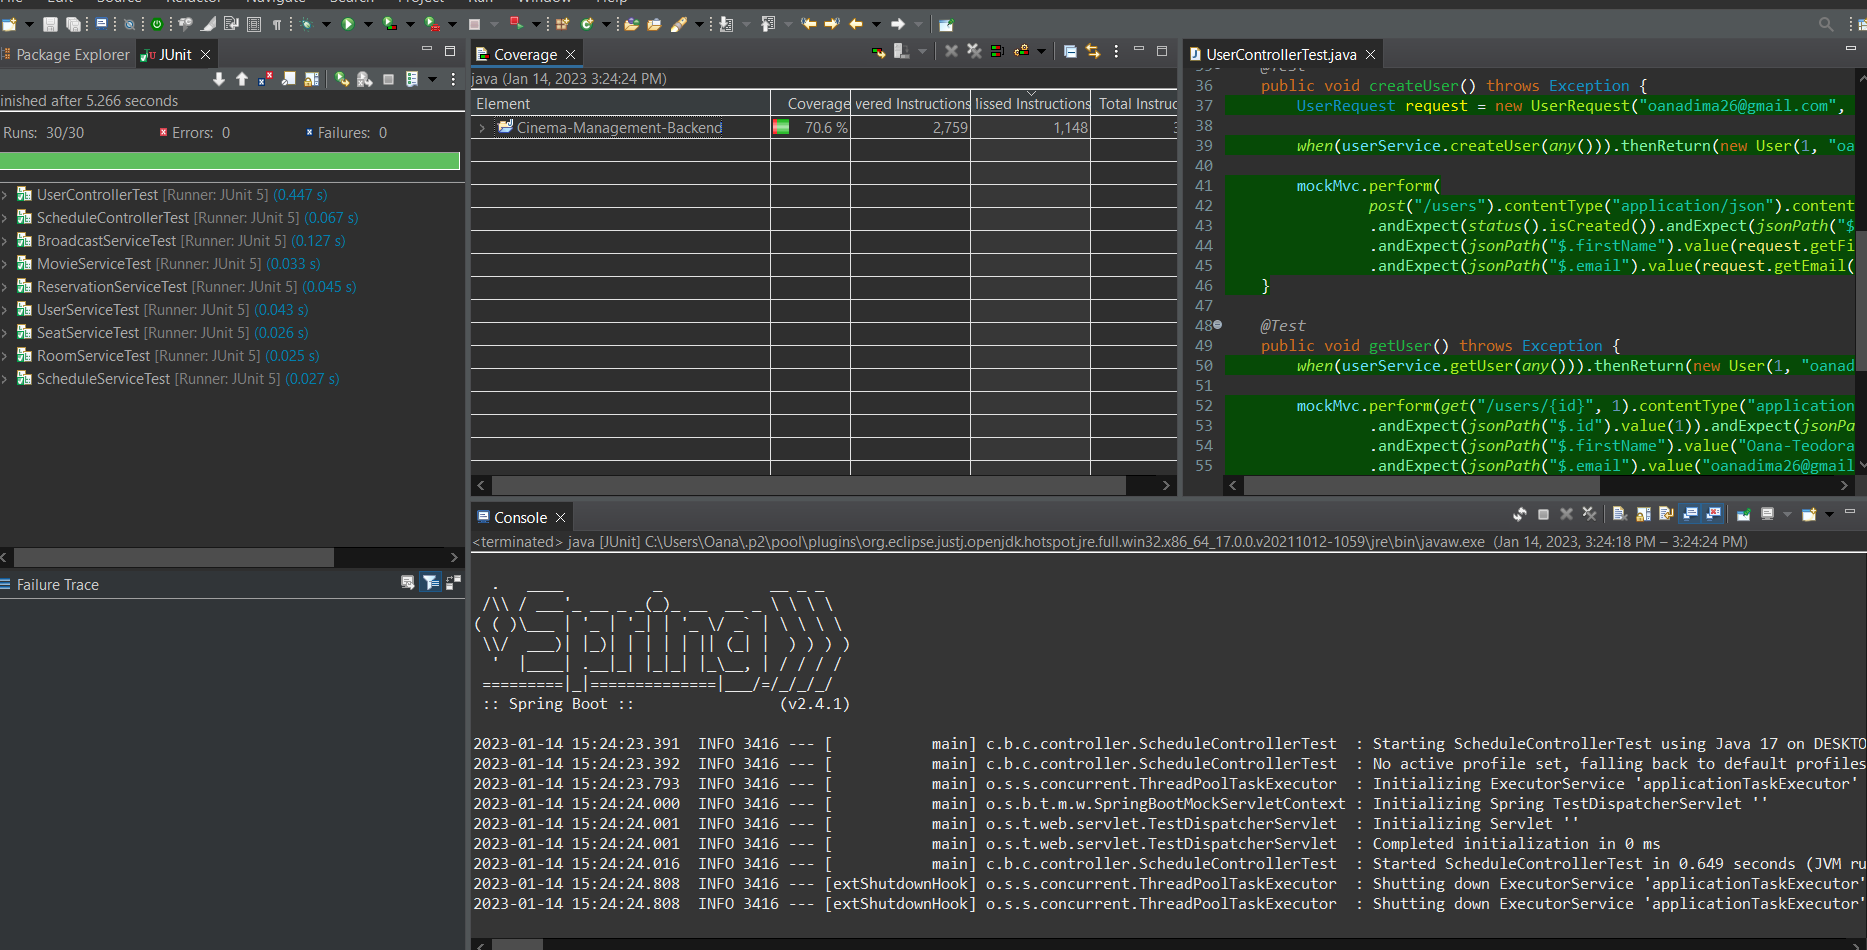
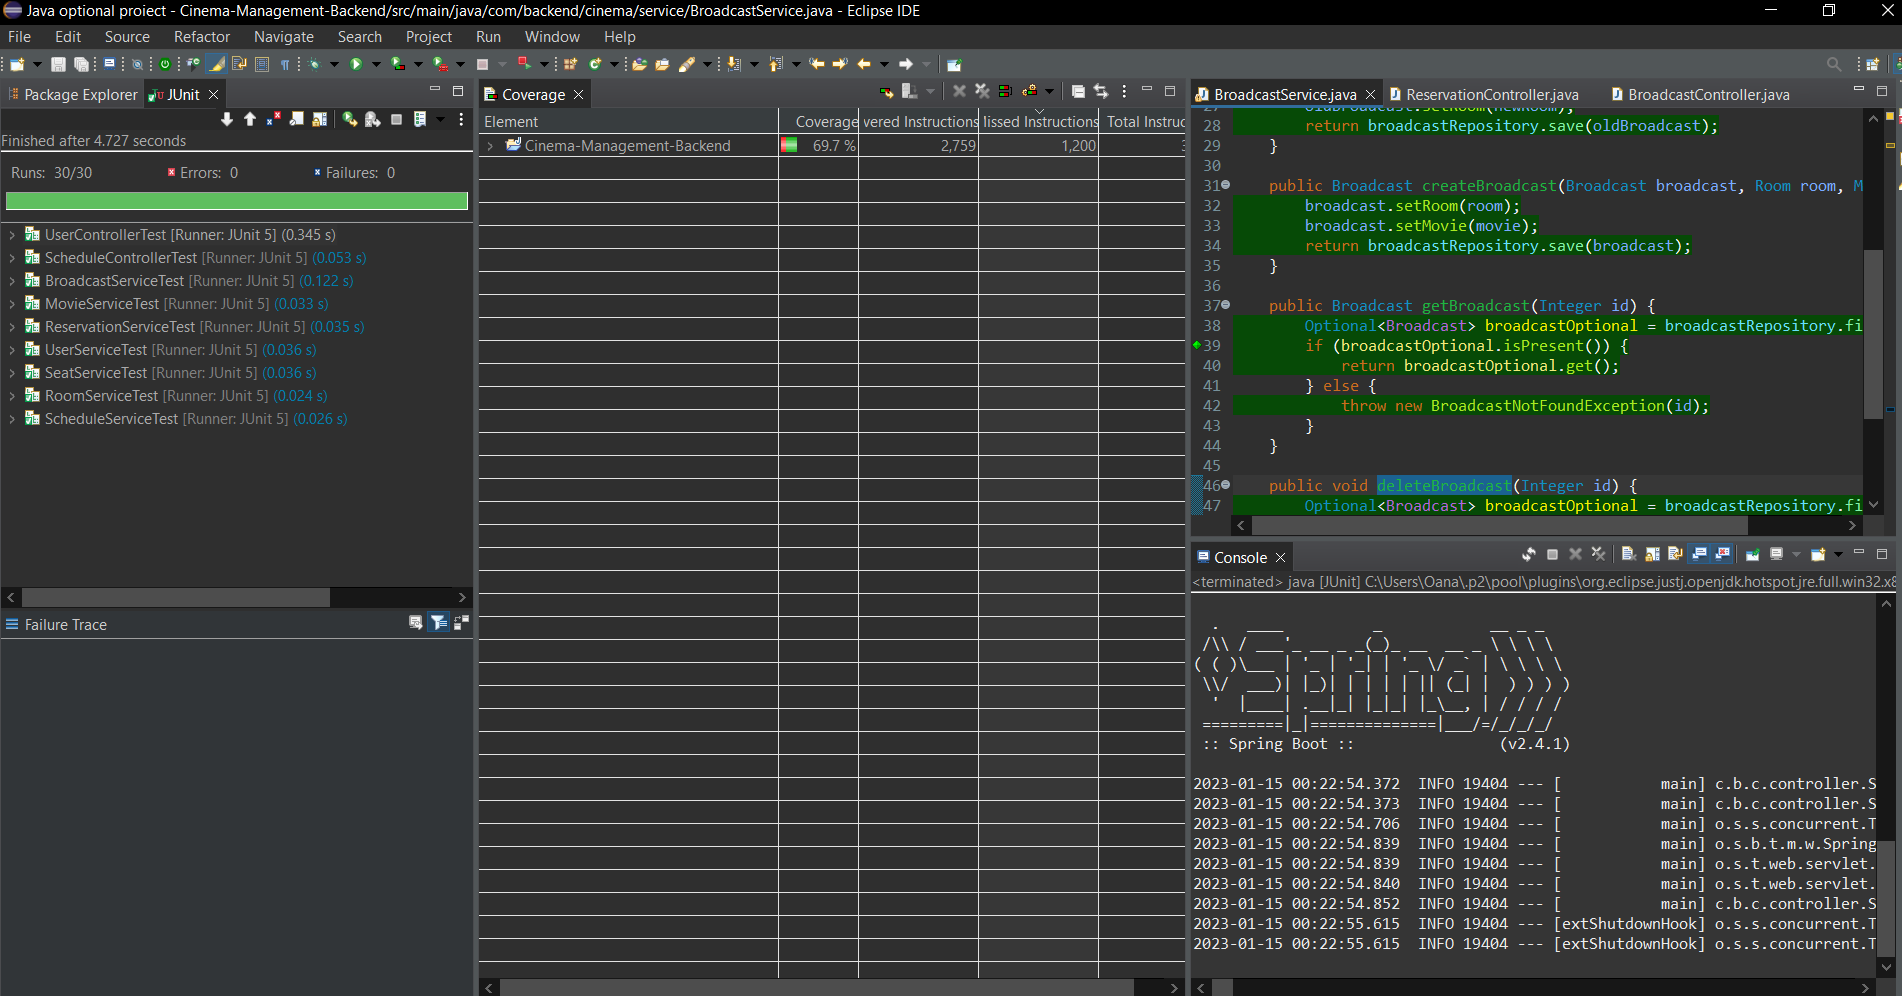
Debugging

diff --git a/src/main/java/com/backend/cinema/controller/BroadcastController.java b/src/main/java/com/backend/cinema/controller/BroadcastController.java
@@ -1,6 +1,7 @@
 package com.backend.cinema.controller;
 
 import java.net.URI;
+import java.util.List;
 
 import javax.validation.Valid;
 
@@ -20,9 +21,11 @@ import com.backend.cinema.mapper.BroadcastMapper;
 
 import com.backend.cinema.model.Broadcast;
 import com.backend.cinema.model.Movie;
+import com.backend.cinema.model.Reservation;
 import com.backend.cinema.model.Room;
 import com.backend.cinema.service.BroadcastService;
 import com.backend.cinema.service.MovieService;
+import com.backend.cinema.service.ReservationService;
 import com.backend.cinema.service.RoomService;
 
 import io.swagger.annotations.Api;
@@ -39,14 +42,16 @@ public class BroadcastController {
 	private BroadcastService broadcastService;
 	private RoomService roomService;
 	private MovieService movieService;
+	private ReservationService reservationService;
 
 	private BroadcastMapper broadcastMapper;
 
-	public BroadcastController(BroadcastService broadcastService, RoomService roomService, MovieService movieService,
+	public BroadcastController(BroadcastService broadcastService, RoomService roomService, MovieService movieService,ReservationService reservationService,
 			BroadcastMapper broadcastMapper) {
 		this.broadcastService = broadcastService;
 		this.roomService = roomService;
 		this.movieService = movieService;
+		this.reservationService = reservationService;
 		this.broadcastMapper = broadcastMapper;
 	}
 
@@ -86,13 +91,16 @@ public class BroadcastController {
 		return ResponseEntity.ok().body(broadcastService.getBroadcast(id));
 	}
 
-	@DeleteMapping(path = "/{movieId}", produces = { MediaType.APPLICATION_JSON_VALUE })
+	@DeleteMapping(path = "/{broadcastId}", produces = { MediaType.APPLICATION_JSON_VALUE })
 	@ApiOperation(value = "Delete a broadcast", notes = "Delete a broadcast by movie id from the database and it's dependencies")
 	@ApiResponses(value = { @ApiResponse(code = 201, message = "The broadcast was found"),
 			@ApiResponse(code = 404, message = "The broadcast was not found") })
-	public ResponseEntity<String> delete(@PathVariable Integer movieId) {
-		Movie movie = movieService.getMovie(movieId);
-		broadcastService.deleteBroadcast(movie.getId());
+	public ResponseEntity<String> delete(@PathVariable Integer broadcastId) {
+		List<Reservation> reservations = reservationService.getAllReservationsByBroadcast(broadcastId);
+		for(Reservation reservation : reservations) {
+			reservationService.deleteReservation(reservation.getId());
+		}
+		broadcastService.deleteBroadcast(broadcastId);
 		return ResponseEntity.ok().body("Succesfully deleted");
 	}
 

diff --git a/src/main/java/com/backend/cinema/controller/SeatController.java b/src/main/java/com/backend/cinema/controller/SeatController.java
@@ -10,9 +10,11 @@ import org.springframework.web.bind.annotation.PathVariable;
 import org.springframework.web.bind.annotation.RequestMapping;
 import org.springframework.web.bind.annotation.RestController;
 
+import com.backend.cinema.model.Broadcast;
 import com.backend.cinema.model.Reservation;
 import com.backend.cinema.model.Room;
 import com.backend.cinema.model.Seat;
+import com.backend.cinema.service.BroadcastService;
 import com.backend.cinema.service.ReservationService;
 import com.backend.cinema.service.SeatService;
 
@@ -28,19 +30,23 @@ public class SeatController {
 
 	private SeatService seatService;
 	private ReservationService reservationService;
+	private BroadcastService broadcastService;
 
-	public SeatController(SeatService seatService, ReservationService reservationService) {
+	public SeatController(SeatService seatService, ReservationService reservationService,
+			BroadcastService broadcastService) {
 		this.seatService = seatService;
 		this.reservationService = reservationService;
+		this.broadcastService = broadcastService;
 	}
 
 	@GetMapping(path = "/{broadcastId}", produces = { MediaType.APPLICATION_JSON_VALUE })
 	@ApiOperation(value = "Get the free seats", notes = "Get the list of free seats for a certain broadcast based on the broadcast id")
 	@ApiResponses(value = { @ApiResponse(code = 201, message = "The seat was found"),
 			@ApiResponse(code = 404, message = "The seat was not found") })
-	public ResponseEntity<Dictionary<Room, List<Seat>>> getSeat(@PathVariable Integer broadcastId) {
+	public ResponseEntity<Dictionary<Room, List<Seat>>> getFreeSeats(@PathVariable Integer broadcastId) {
+		Broadcast broadcast = broadcastService.getBroadcast(broadcastId);
 		List<Reservation> reservations = reservationService.getAllReservationsByBroadcast(broadcastId);
-		return ResponseEntity.ok().body(seatService.getFreeSeats(reservations));
+		return ResponseEntity.ok().body(seatService.getFreeSeats(reservations, broadcast));
 	}
 
 }

diff --git a/src/main/java/com/backend/cinema/service/SeatService.java b/src/main/java/com/backend/cinema/service/SeatService.java
@@ -5,7 +5,6 @@ import java.util.Dictionary;
 import java.util.Hashtable;
 import java.util.List;
 import java.util.Optional;
-import java.util.Set;
 
 import org.springframework.stereotype.Service;
 
@@ -17,6 +16,7 @@ import com.backend.cinema.repository.SeatRepository;
 
 @Service
 public class SeatService {
+	
 	private SeatRepository seatRepository;
 
 	public SeatService(SeatRepository seatRepository) {
@@ -39,17 +39,20 @@ public class SeatService {
 		return seatRepository.save(seat);
 	}
 
-	public Dictionary<Room, List<Seat>> getFreeSeats(List<Reservation> reservations) {
+	public Dictionary<Room, List<Seat>> getFreeSeats(List<Reservation> reservations, Broadcast broadcast) {
 		Dictionary<Room, List<Seat>> dictionary = new Hashtable<Room, List<Seat>>();
+		List<Seat> allSeats = seatRepository.findAll();
+		List<Seat> reservedSeats = new ArrayList<Seat>();
 		for (Reservation reservation : reservations) {
-			List<Seat> reservedSeats = reservation.getReservedSeats();
-			for (Seat seat : reservedSeats) {
+			reservedSeats.addAll(reservation.getReservedSeats());
+		}
+		for (Seat seat : allSeats) {
+			if (seat.getRoom().getId() == broadcast.getRoom().getId() && !reservedSeats.contains(seat)) {
 				List<Seat> l = dictionary.get(seat.getRoom());
 				if (l == null) {
 					l = new ArrayList<Seat>();
 				}
 				l.add(seat);
-
 				dictionary.put(seat.getRoom(), l);
 			}
 		}

diff --git a/src/main/java/com/backend/cinema/controller/RoomController.java b/src/main/java/com/backend/cinema/controller/RoomController.java
@@ -64,14 +64,12 @@ public class RoomController {
 			@ApiResponse(code = 400, message = "Validation error on the received request") })
 	public ResponseEntity<List<Room>> createBulk(
 			@Valid @RequestBody @ApiParam(name = "rooms", value = "List with rooms details", required = true) List<RoomRequest> listRoomRequest) {
-		List<Room> createdRooms = new ArrayList<Room>();
 		for (RoomRequest roomRequest : listRoomRequest) {
 			Room savedRoom = roomService.createRoom(roomMapper.roomRequestToRoom(roomRequest)); // create room
 			List<Seat> seats = seatService.createSeats(savedRoom); // create seats
 			savedRoom = roomService.saveSeats(seats, savedRoom);
-			createdRooms.add(savedRoom);
 		}
-		return ResponseEntity.ok().body(createdRooms);
+		return ResponseEntity.ok().body(roomService.getAllRooms());
 	}
 
 	@GetMapping(path = "/{id}", produces = { MediaType.APPLICATION_JSON_VALUE })

diff --git a/src/main/java/com/backend/cinema/model/Broadcast.java b/src/main/java/com/backend/cinema/model/Broadcast.java
@@ -12,15 +12,11 @@ public class Broadcast {
 	@GeneratedValue(strategy = GenerationType.IDENTITY)
 	private int id;
 
-	@ManyToOne(cascade = CascadeType.ALL)
+	@ManyToOne // (cascade = CascadeType.ALL)
 	@JoinColumn(name = "room_id", nullable = false)
 	private Room room;
 
-	@OneToOne(mappedBy = "broadcast")
-	@JsonIgnore
-	private Reservation reservation;
-
-	@OneToOne(cascade = CascadeType.ALL)
+	@OneToOne // (cascade = CascadeType.ALL)
 	@JoinColumn(name = "movie_id", referencedColumnName = "id")
 	private Movie movie;
 
@@ -49,14 +45,6 @@ public class Broadcast {
 
 	public void setRoom(Room room) {
 		this.room = room;
-	}
-
-	public Reservation getReservation() {
-		return reservation;
-	}
-
-	public void setReservation(Reservation reservation) {
-		this.reservation = reservation;
 	}
 
 	public Movie getMovie() {

diff --git a/src/main/java/com/backend/cinema/controller/MovieController.java b/src/main/java/com/backend/cinema/controller/MovieController.java
@@ -58,12 +58,10 @@ public class MovieController {
 			@ApiResponse(code = 400, message = "Validation error on the received request") })
 	public ResponseEntity<List<Movie>> createBulk(
 			@Valid @RequestBody @ApiParam(name = "movies", value = "List with movies details", required = true) List<MovieRequest> listMovieRequest) {
-		List<Movie> createdMovies = new ArrayList<Movie>();
 		for (MovieRequest movieRequest : listMovieRequest) {
 			Movie savedMovie = movieService.createMovie(movieMapper.movieRequestToMovie(movieRequest));
-			createdMovies.add(savedMovie);
 		}
-		return ResponseEntity.ok().body(createdMovies);
+		return ResponseEntity.ok().body(movieService.getAllMovies());
 	}
 
 	@GetMapping(path = "/{id}", produces = { MediaType.APPLICATION_JSON_VALUE })

diff --git a/src/main/java/com/backend/cinema/model/Reservation.java b/src/main/java/com/backend/cinema/model/Reservation.java
@@ -23,12 +23,12 @@ public class Reservation {
 	@JoinColumn(name = "user_id", nullable = false)
 	private User user;
 
-	@ManyToMany(targetEntity = Seat.class)//, cascade = CascadeType.ALL)
+	@ManyToMany(targetEntity = Seat.class)
 	@JoinTable(name = "reserved_seat", joinColumns = { @JoinColumn(name = "reservation_id") }, inverseJoinColumns = {
 			@JoinColumn(name = "seat_id") })
 	private List<Seat> reservedSeats;
 
-	@OneToOne(fetch = FetchType.LAZY)//(cascade = CascadeType.ALL)
+	@OneToOne//(cascade = CascadeType.ALL) 
 	@JoinColumn(name = "broadcast_id", referencedColumnName = "id")
 	private Broadcast broadcast;
 

diff --git a/src/main/java/com/backend/cinema/exception/GlobalExceptionHandler.java b/src/main/java/com/backend/cinema/exception/GlobalExceptionHandler.java
@@ -40,6 +40,11 @@ public class GlobalExceptionHandler {
 	public ResponseEntity<String> handle(ScheduleNotFoundException e) {
 		return ResponseEntity.status(HttpStatus.NOT_FOUND).body(e.getMessage() + " at " + LocalDateTime.now());
 	}
+	
+	@ExceptionHandler({ ReservationNotFoundException.class })
+	public ResponseEntity<String> handle(ReservationNotFoundException e) {
+		return ResponseEntity.status(HttpStatus.NOT_FOUND).body(e.getMessage() + " at " + LocalDateTime.now());
+	}
 
 	@ExceptionHandler(MethodArgumentNotValidException.class)
 	public ResponseEntity<String> handle(MethodArgumentNotValidException e) {

diff --git a/src/main/java/com/backend/cinema/repository/ReservationRepository.java b/src/main/java/com/backend/cinema/repository/ReservationRepository.java
@@ -1,14 +1,18 @@
 package com.backend.cinema.repository;
 
 import java.util.List;
+import java.util.Optional;
 
 import org.springframework.data.jpa.repository.JpaRepository;
 import org.springframework.data.jpa.repository.Query;
 
+import com.backend.cinema.model.Broadcast;
 import com.backend.cinema.model.Reservation;
 
 public interface ReservationRepository extends JpaRepository<Reservation, Integer> {
 
 	@Query(nativeQuery = true, value = "select * from reservation rez where rez.broadcast_id = :id")
 	List<Reservation> findAllByBroadcastId(Integer id);
+	
+	Optional<Reservation> findById(Integer id);
 }

diff --git a/src/main/java/com/backend/cinema/service/RoomService.java b/src/main/java/com/backend/cinema/service/RoomService.java
@@ -6,6 +6,7 @@ import java.util.Optional;
 import org.springframework.stereotype.Service;
 
 import com.backend.cinema.exception.RoomNotFoundException;
+import com.backend.cinema.model.Movie;
 import com.backend.cinema.model.Room;
 import com.backend.cinema.model.Seat;
 import com.backend.cinema.repository.RoomRepository;
@@ -34,5 +35,9 @@ public class RoomService {
 		} else {
 			throw new RoomNotFoundException(id);
 		}
+	}
+	
+	public List<Room> getAllRooms() {
+		return roomRepository.findAll();
 	}
 }

diff --git a/src/main/java/com/backend/cinema/service/MovieService.java b/src/main/java/com/backend/cinema/service/MovieService.java
@@ -1,5 +1,6 @@
 package com.backend.cinema.service;
 
+import java.util.List;
 import java.util.Optional;
 
 import org.springframework.stereotype.Service;
@@ -28,5 +29,9 @@ public class MovieService {
 		} else {
 			throw new MovieNotFoundException(id);
 		}
+	}
+
+	public List<Movie> getAllMovies() {
+		return movieRepository.findAll();
 	}
 }

diff --git a/README.md b/README.md
@@ -4,15 +4,12 @@ Documentatie
 ## :clipboard: MySQL database - Baza de date - entitati
 ![DB schema](https://github.com/DimaOanaTeodora/Cinema-Management-Backend/blob/main/DB.png?raw=true)
 
-## :briefcase: Business requirmentes/ Functionalitati
-TODO la stergerea unei programari sa nu stearga camere si filmele 
-
 ## :briefcase: REST ENDPOINTS - CRUD - Functionalitati
 ### CREATE
 1. Adaugare film
 2. Adaugare filme printr-un JSON cu o lista de filme
 3. Adaugare sala + generare automata locuri din sala in ordine crescatoare incepand cu 1
-4. Adaugare sali + generare automata locuri pentru ficare printr-un JSON cu o lista de sali
+4. Adaugare sali printr-un JSON cu o lista de sali + enerare automata locuri din sala in ordine crescatoare incepand cu 1
 5. Adaugare user + duplicate exception pentru email
 6. Adaugarea unei rezervari facuta de un user, pentru un anumit film, la o anumita data si ora, cu un numar de locuri dat
 7. Adaugare programare film intr-o anumita sala, la o anumita data si ora
@@ -32,7 +29,7 @@ TODO la stergerea unei programari sa nu stearga camere si filmele
 3. Stergerea unei programari a unui film
    
 ## :next_track_button: Testing
-Code coverage total obtinut 70.6%
+Code coverage total obtinut 69.7%
 
 ![Tests](https://github.com/DimaOanaTeodora/Cinema-Management-Backend/blob/main/test.png?raw=true)
 
@@ -254,7 +251,10 @@ public class RoomRequest {
     }
 ```
 
-## :high_brightness: SWARM DOCS
+## :high_brightness: SWAGGER DOCS
+
+![Swagger](https://github.com/DimaOanaTeodora/Cinema-Management-Backend/blob/main/swagger.png?raw=true)
+
 ```Java
 \\SwaggerConfig.java
 
